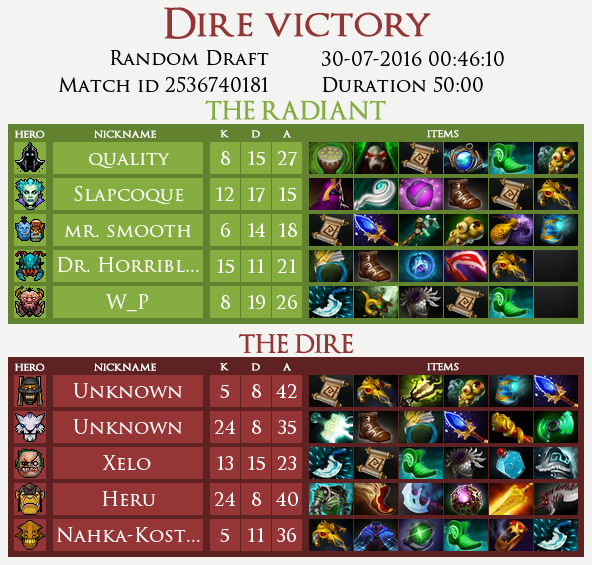
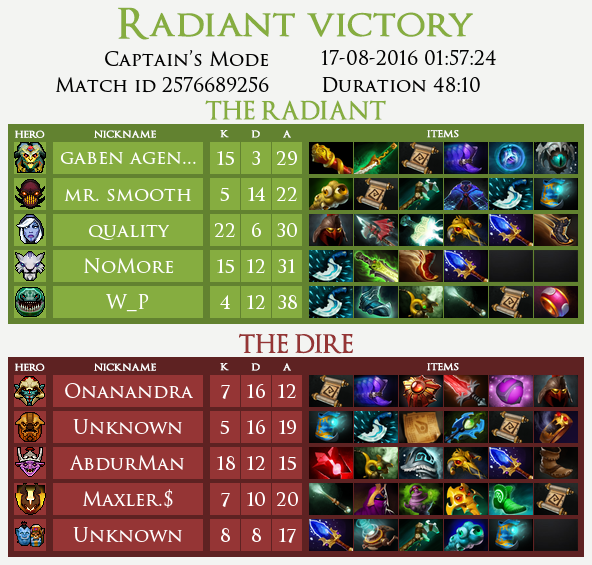
add command for any match id

diff --git a/cogs/meta.py b/cogs/meta.py
@@ -9,6 +9,7 @@ from token_and_api_key import log_chat_id
 from cogs.utils.hero_dictionary import hero_dic
 from collections import Counter
 
+
 class Meta:
 
     def __init__(self, bot):
@@ -100,13 +101,15 @@ class Meta:
     @commands.command(pass_context=True, no_pm=True)
     async def add_steamid(self, ctx, steamid: int):
         """Makes connection discord id - steam id"""
-        discord_id = ctx.message.author.id
-        reply = db.add_id(discord_id, ctx.message.server.id, steamid)
-        if reply:
-            await self.bot.say(reply)
+        if steamid.isnumeric():
+            discord_id = ctx.message.author.id
+            reply = db.add_id(discord_id, ctx.message.server.id, steamid)
+            if reply:
+                await self.bot.say(reply)
+            else:
+                await self.bot.say("Done!")
         else:
-            await self.bot.say("Done!")
-
+            await self.bot.say("Invalid input.")
     @commands.command(pass_context=True, no_pm=True)
     async def delete_steamid(self, ctx):
         discord_id = ctx.message.author.id

diff --git a/cogs/stats.py b/cogs/stats.py
@@ -13,6 +13,7 @@ import datetime
 from tabulate import tabulate
 import collections
 
+
 class Stats:
     """Dota-related stats"""
     def __init__(self, bot):
@@ -272,6 +273,12 @@ class Stats:
                 leaderboard,
                 tablefmt="plain",
                 headers="firstrow")))
+
+    @commands.command(pass_context=True)
+    async def match(self, ctx, match_id: int):
+        post_game(match_id)
+        await self.bot.send_file(ctx.message.channel, 'images/lineup/postgame.png')
+
 
 def setup(bot):
     bot.add_cog(Stats(bot))

diff --git a/cogs/voice.py b/cogs/voice.py
@@ -11,7 +11,8 @@ class Voice:
 
     @commands.command(pass_context=True)
     async def voice(self, ctx, *, voice_line):
-        """Plays voice line into your current voice channel. No spam pls."""
+        """Plays voice line into your current voice channel. No spam pls. Valid voice commands:
+        am/jugg/lich/lich2/noice/shaker/shaker2/wd/wd2/wl/wow"""
         if os.path.isfile('audio/{}.mp3'.format(voice_line)):
                 user = ctx.message.author
                 voice = await self.bot.join_voice_channel(user.voice_channel)
